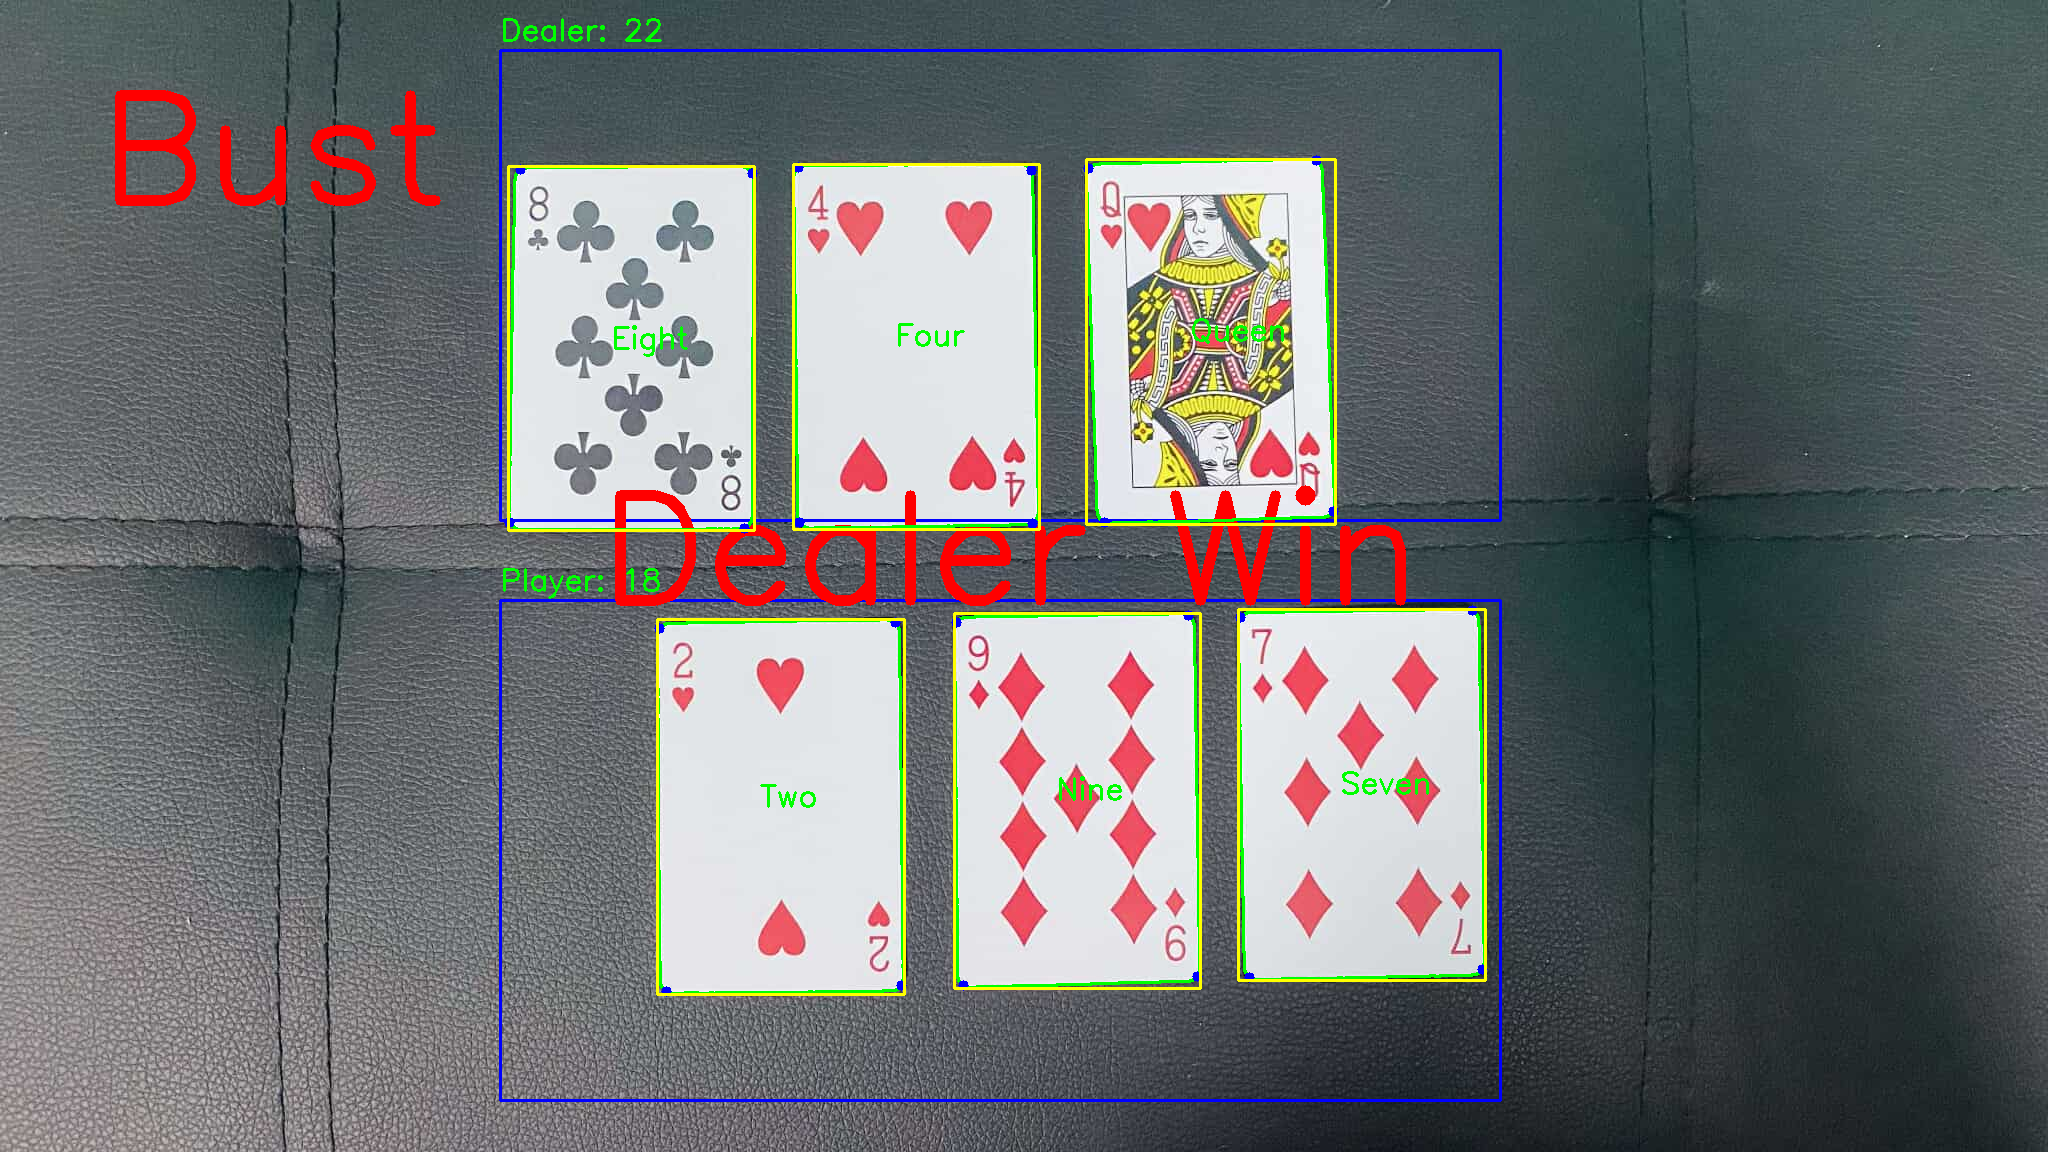
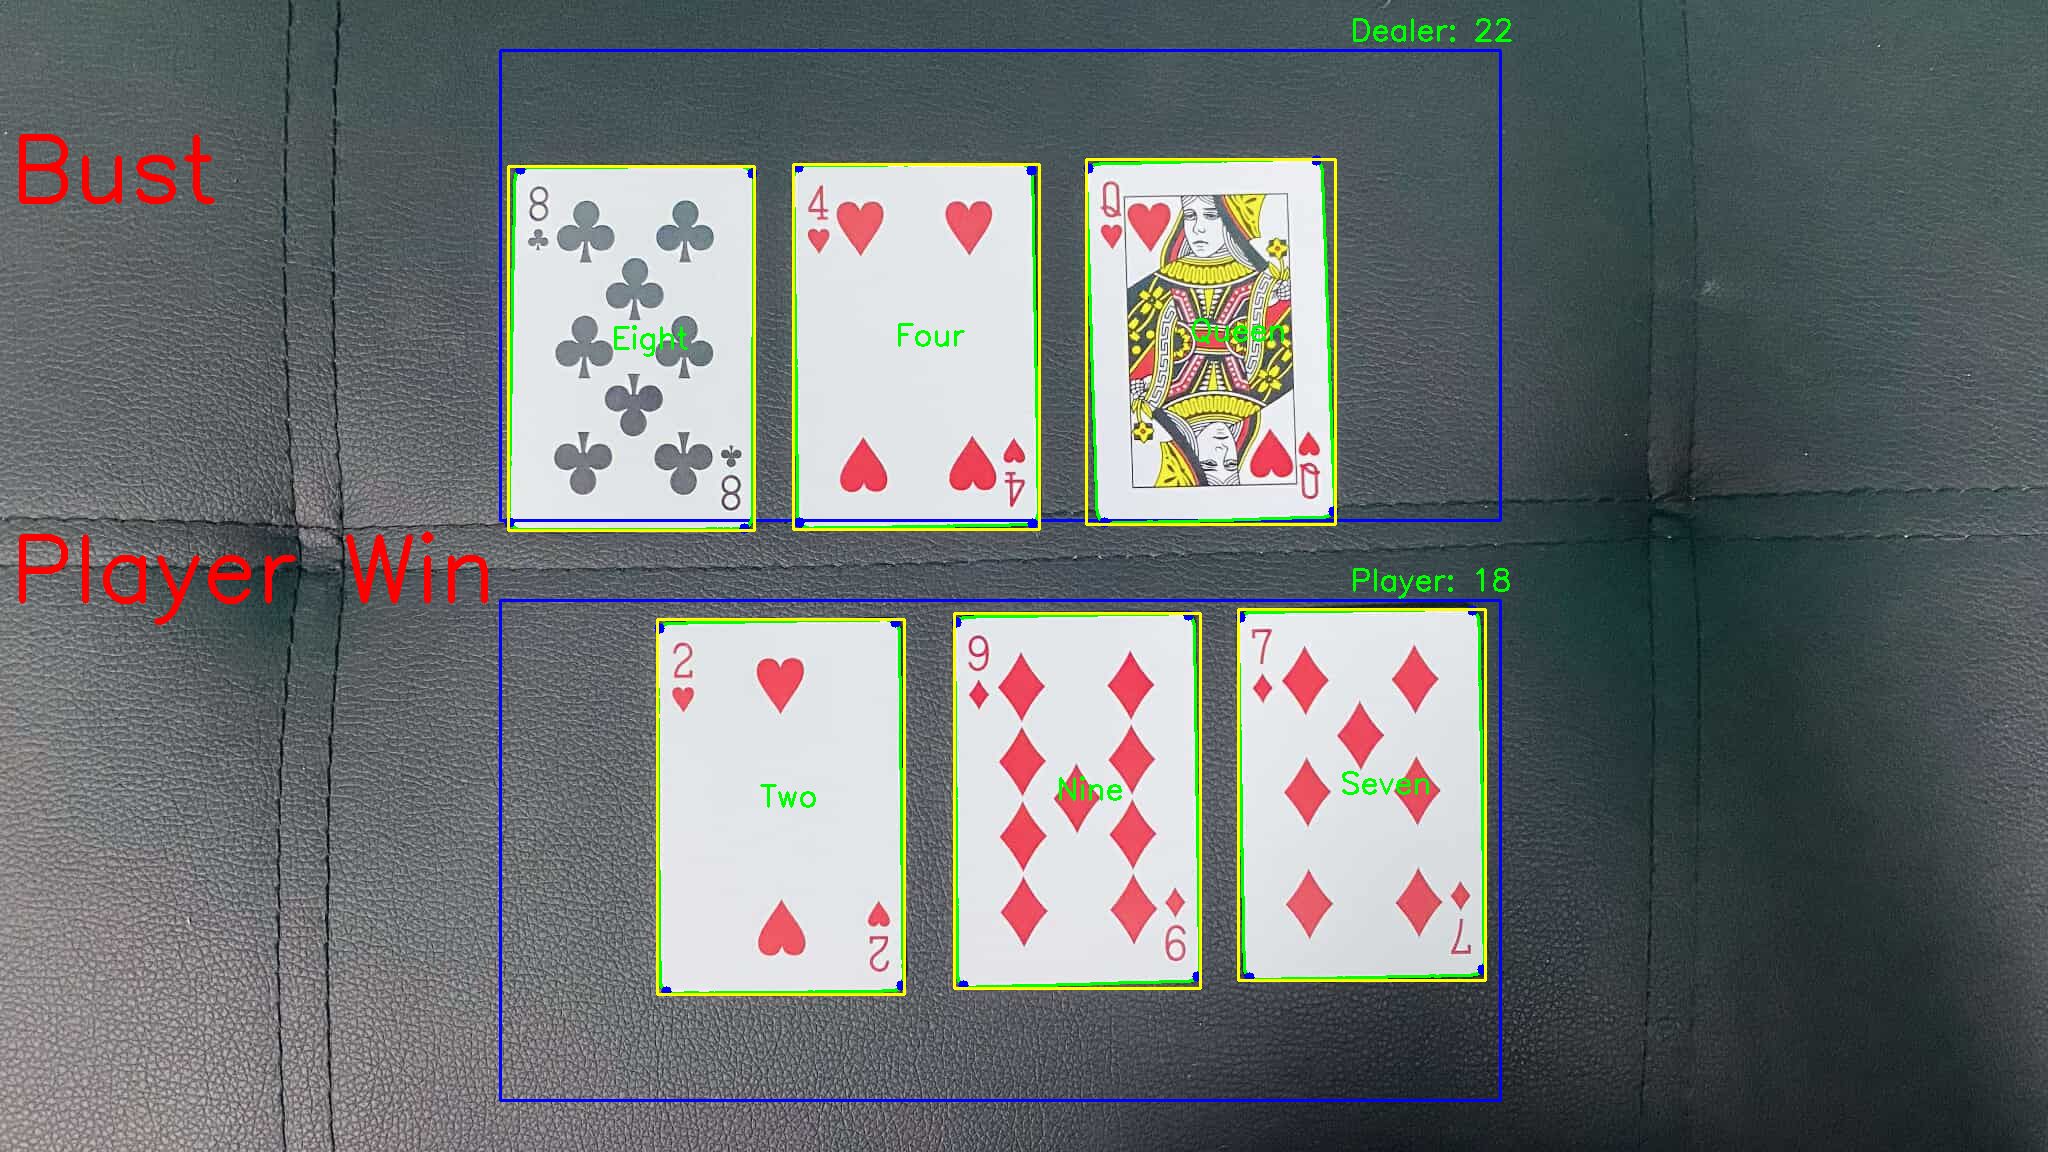
who win

diff --git a/cards.py b/cards.py
@@ -270,29 +270,29 @@ def process_folder(input_folder, output_folder, rank_path, last_cards=[]):
 
             # Add text showing total value of cards in each rectangle
             cv2.putText(image, f"Player: {total_value_players}", 
-                        (filter_rect_player[0], filter_rect_player[1] - 10), 
+                        (filter_rect_player[2]-150, filter_rect_player[1] - 10), 
                         cv2.FONT_HERSHEY_SIMPLEX, 1, (0, 255, 0), 2)
             cv2.putText(image, f"Dealer: {total_value_dealer}", 
-                        (filter_rect_dealer[0], filter_rect_dealer[1] - 10), 
+                        (filter_rect_dealer[2]-150, filter_rect_dealer[1] - 10), 
                         cv2.FONT_HERSHEY_SIMPLEX, 1, (0, 255, 0), 2)
         
         if "post" in image_filename.lower():
-            if total_value_players > total_value_dealer:
-                cv2.putText(image, "Player Win", (600,600),cv2.FONT_HERSHEY_SIMPLEX, 5, (0, 0, 255), 10)
-            elif total_value_dealer > total_value_players:
-                cv2.putText(image, "Dealer Win", (600,600),cv2.FONT_HERSHEY_SIMPLEX, 5, (0, 0, 255), 10)
-            else:
-                cv2.putText(image, "Draw", (600,600),cv2.FONT_HERSHEY_SIMPLEX, 5, (0, 0, 255), 10)
+            if (total_value_dealer == total_value_players) or (total_value_players>21 and total_value_dealer>21):
+                cv2.putText(image, "Draw", (200,600),cv2.FONT_HERSHEY_SIMPLEX, 3, (0, 0, 255), 6)
+            elif ((total_value_players > total_value_dealer)and total_value_players < 22) or (total_value_dealer>21):
+                cv2.putText(image, "Player Win", (10,600),cv2.FONT_HERSHEY_SIMPLEX, 3, (0, 0, 255), 6)
+            elif ((total_value_dealer > total_value_players)and total_value_dealer < 22) or (total_value_players>21):
+                cv2.putText(image, "Dealer Win", (10,600),cv2.FONT_HERSHEY_SIMPLEX, 3, (0, 0, 255), 6)
 
             if total_value_players == 21:
-                    cv2.putText(image, "Black Jack", (100,700),cv2.FONT_HERSHEY_SIMPLEX, 5, (0, 0, 255), 10)
+                    cv2.putText(image, "Black Jack", (10,900),cv2.FONT_HERSHEY_SIMPLEX, 3, (0, 0, 255), 6)
             if total_value_dealer == 21:
-                    cv2.putText(image, "Black Jack", (100,200),cv2.FONT_HERSHEY_SIMPLEX, 5, (0, 0, 255), 10)
+                    cv2.putText(image, "Black Jack", (10,200),cv2.FONT_HERSHEY_SIMPLEX, 3, (0, 0, 255), 6)
 
             if total_value_players > 21:
-                    cv2.putText(image, "Bust", (100,700),cv2.FONT_HERSHEY_SIMPLEX, 5, (0, 0, 255), 10)
+                    cv2.putText(image, "Bust", (10,900),cv2.FONT_HERSHEY_SIMPLEX, 3, (0, 0, 255), 6)
             if total_value_dealer > 21:
-                    cv2.putText(image, "Bust", (100,200),cv2.FONT_HERSHEY_SIMPLEX, 5, (0, 0, 255), 10)
+                    cv2.putText(image, "Bust", (10,200),cv2.FONT_HERSHEY_SIMPLEX, 3, (0, 0, 255), 6)
 
         # Display the image with detected cards
         result_image = display(image, cards)
